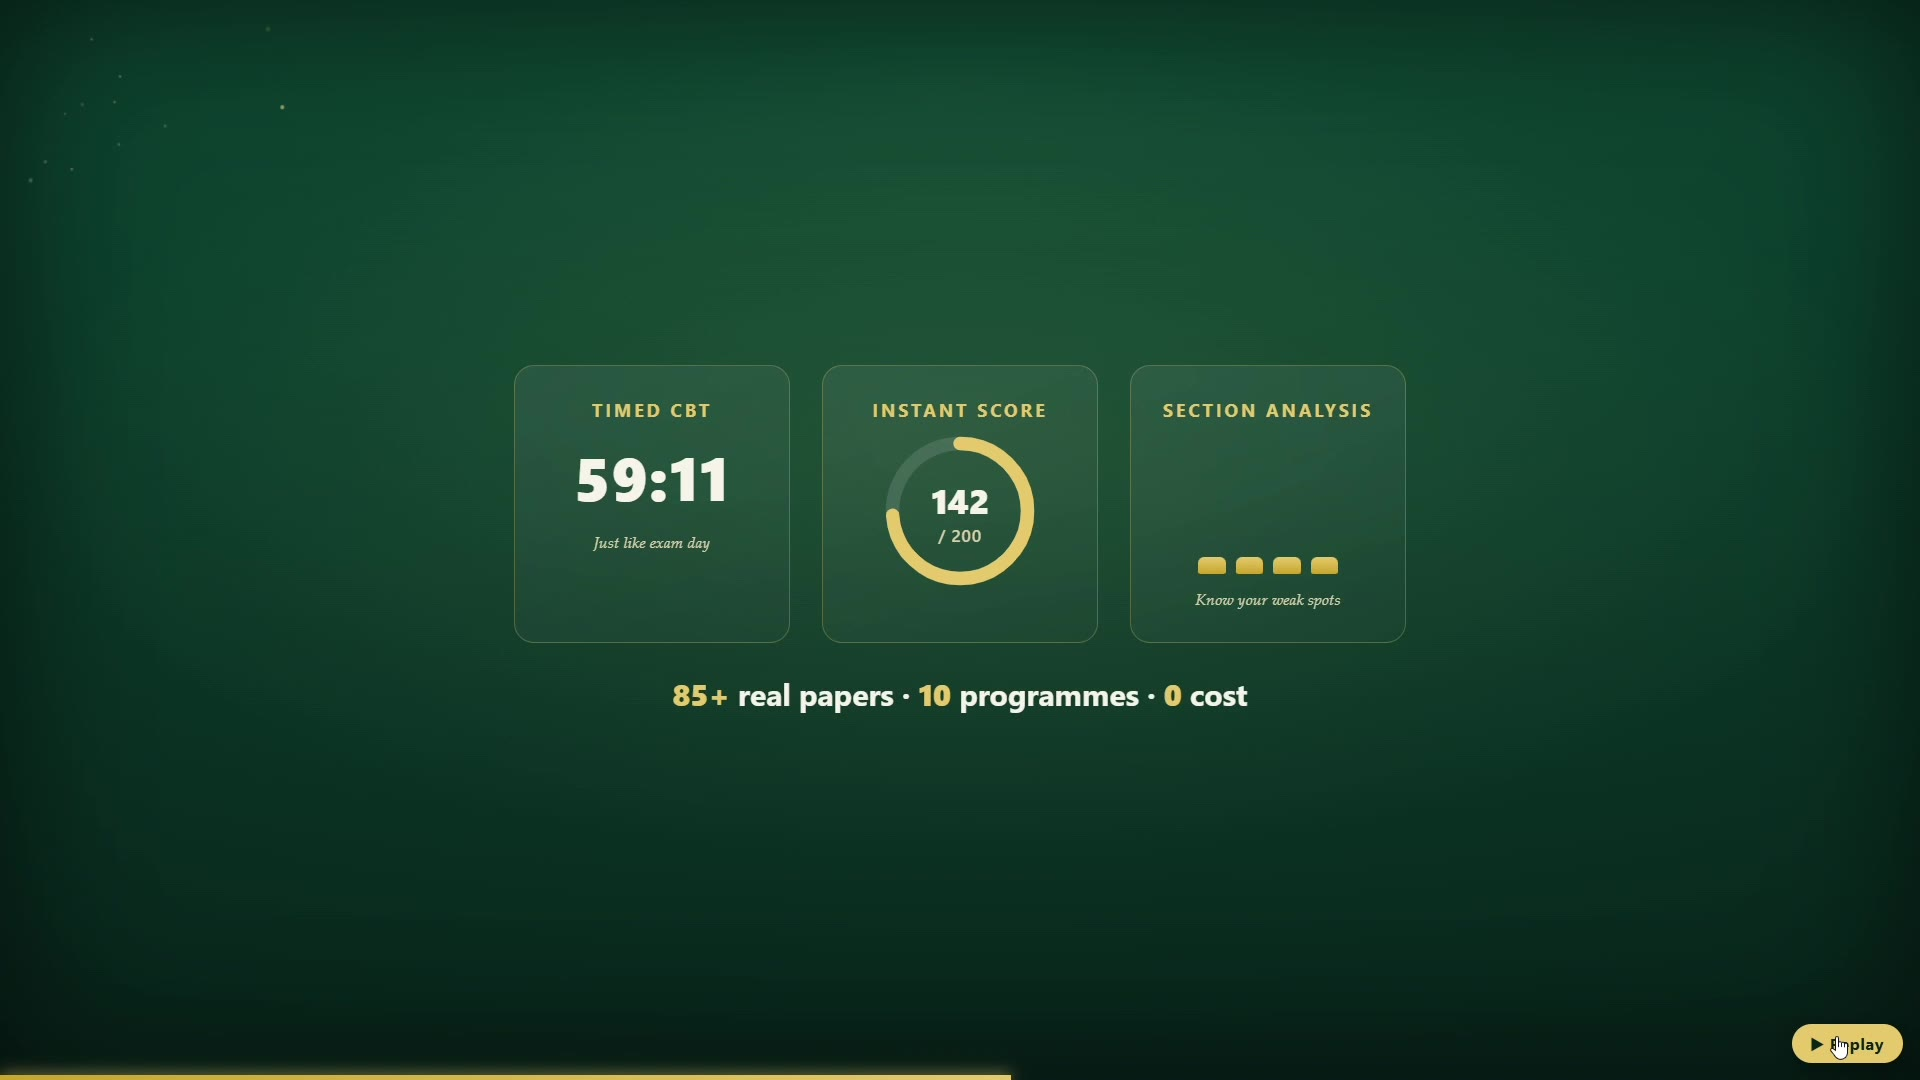
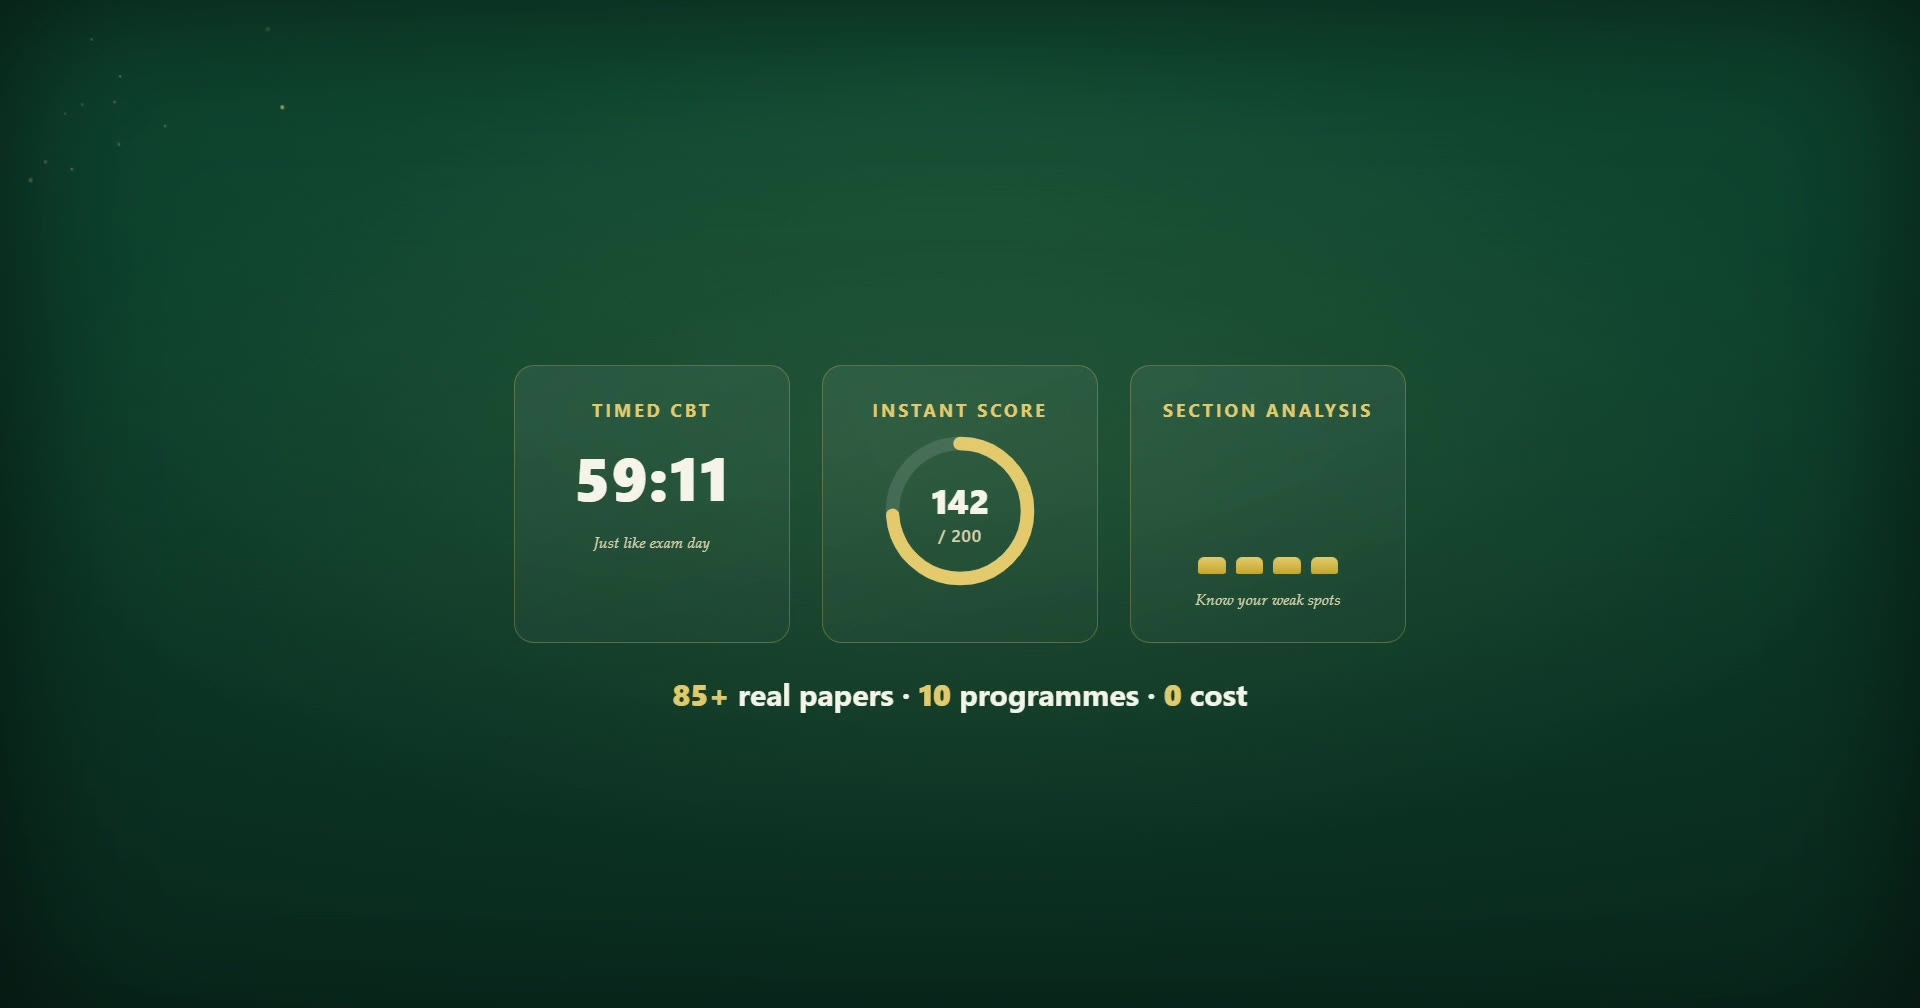
fix(landing): crop replay button, cursor and progress bar out of launch video
Bottom 72px trimmed (1920x1008); poster regenerated; frame aspect updated.
Re-encode also shrank the file 7.5MB -> 2.7MB.

diff --git a/css/landing.css b/css/landing.css
@@ -260,7 +260,7 @@
   border: 1px solid var(--accent-100);
   box-shadow: 0 24px 60px -24px rgba(11, 74, 56, .45);
 }
-.lp-video__player { display: block; width: 100%; height: auto; aspect-ratio: 16 / 9; }
+.lp-video__player { display: block; width: 100%; height: auto; aspect-ratio: 1920 / 1008; }
 
 /* ============================================================
    PROGRAMMES — featured cards, rebuilt as institutional tiles